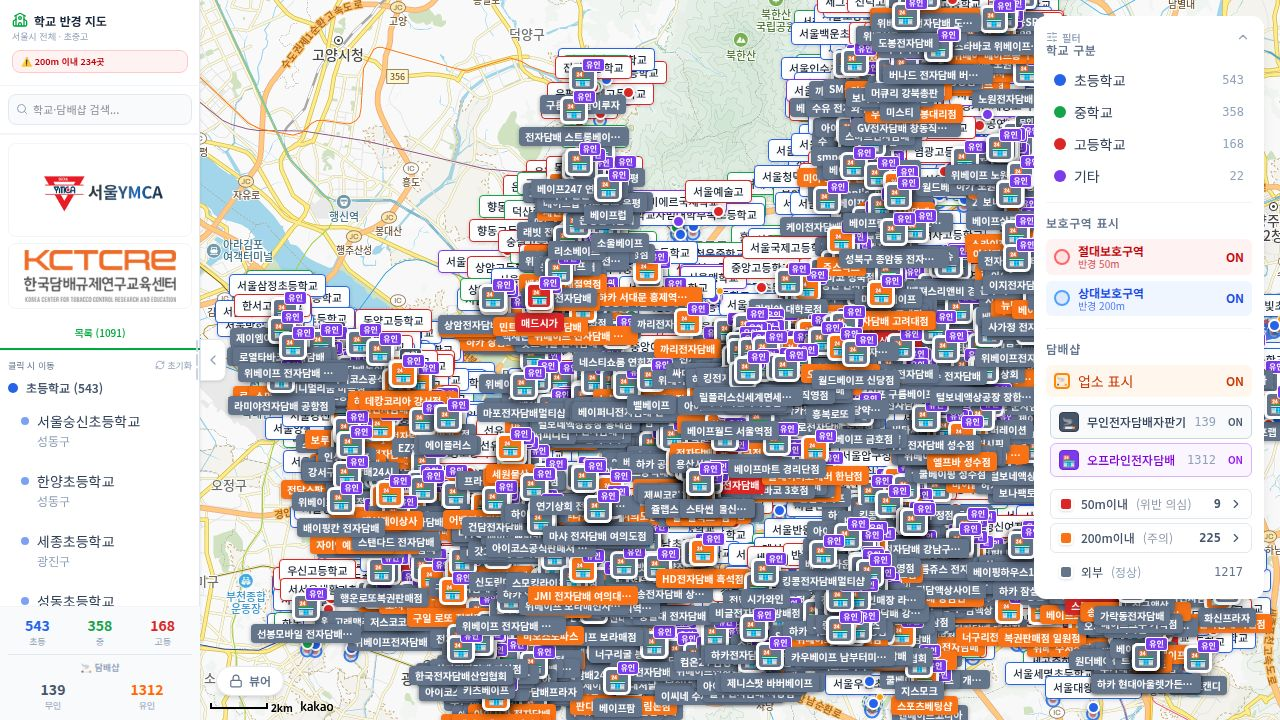
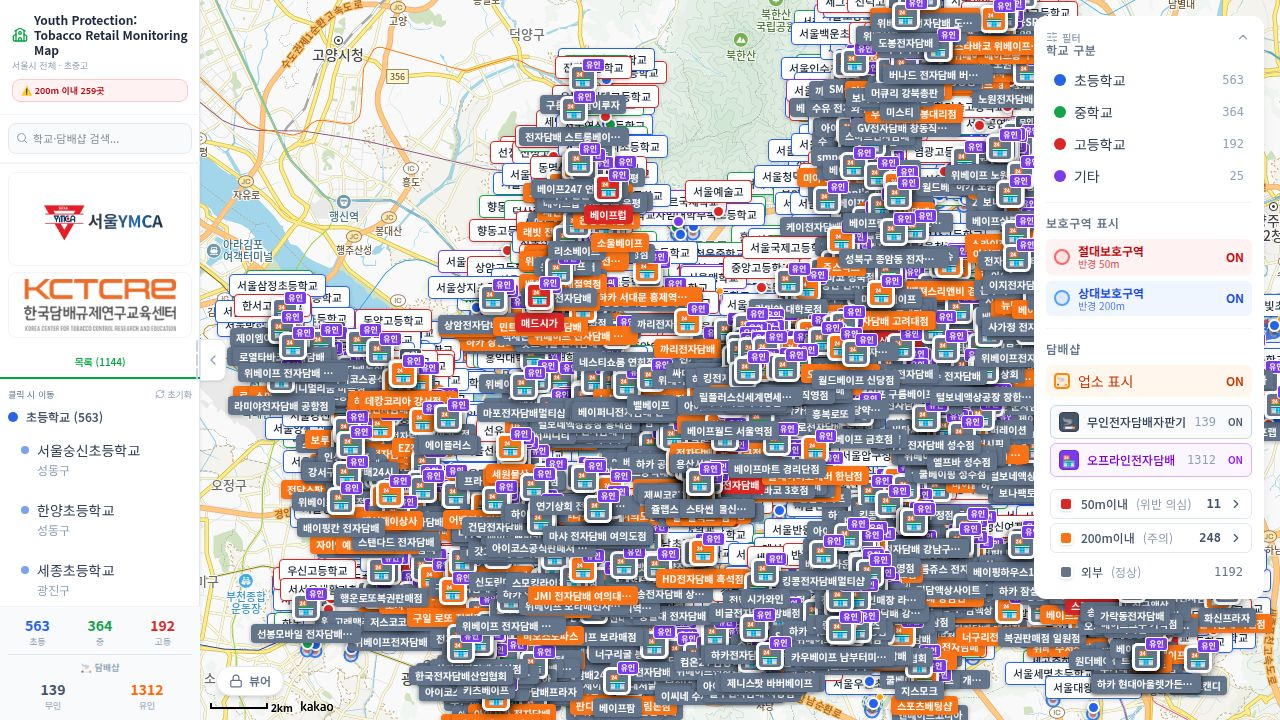
Add progressive web app functionality for offline use and home screen installation
Implement PWA configuration including manifest.json, service worker (sw.js), and app icons (icon-192.png, icon-512.png). Update index.html to register the service worker and add PWA metadata.

Replit-Commit-Author: Agent
Replit-Commit-Session-Id: da1df3fd-b3f6-4c64-9bd5-ff60f89cd415
Replit-Commit-Checkpoint-Type: full_checkpoint
Replit-Commit-Event-Id: 2ce83bef-07fd-4d5c-a432-59c7d3d891d6
Replit-Commit-Screenshot-Url: https://storage.googleapis.com/screenshot-production-us-central1/67cf3ead-6ce6-4d70-9240-5c1be8a0e038/da1df3fd-b3f6-4c64-9bd5-ff60f89cd415/NwNQvV7
Replit-Helium-Checkpoint-Created: true

diff --git a/artifacts/school-map/public/sw.js b/artifacts/school-map/public/sw.js
@@ -1,0 +1,59 @@
+/* Service Worker — Youth Protection Tobacco Retail Monitoring Map
+ * Network-first 전략: 항상 최신 데이터를 우선 사용, 오프라인 시 캐시로 폴백.
+ * 카카오 지도·API 서버는 캐시하지 않음 (동적 데이터). */
+
+const CACHE_NAME = 'yp-tobacco-map-v1';
+const STATIC_ASSETS = [
+  '/',
+  '/index.html',
+  '/manifest.json',
+  '/icon-192.png',
+  '/icon-512.png',
+];
+
+/* 설치: 정적 에셋 사전 캐시 */
+self.addEventListener('install', (event) => {
+  event.waitUntil(
+    caches.open(CACHE_NAME).then((cache) => cache.addAll(STATIC_ASSETS))
+  );
+  self.skipWaiting();
+});
+
+/* 활성화: 구 버전 캐시 정리 */
+self.addEventListener('activate', (event) => {
+  event.waitUntil(
+    caches.keys().then((keys) =>
+      Promise.all(keys.filter((k) => k !== CACHE_NAME).map((k) => caches.delete(k)))
+    )
+  );
+  self.clients.claim();
+});
+
+/* Fetch: 카카오 API 및 서버 API는 항상 네트워크 우선 */
+self.addEventListener('fetch', (event) => {
+  const url = new URL(event.request.url);
+
+  /* 카카오 API, 서버 API — 캐시 우회 */
+  if (
+    url.hostname.includes('kakao') ||
+    url.hostname.includes('daum') ||
+    url.pathname.startsWith('/api/')
+  ) {
+    event.respondWith(fetch(event.request));
+    return;
+  }
+
+  /* 정적 에셋 — 캐시 우선, 없으면 네트워크 */
+  event.respondWith(
+    caches.match(event.request).then(
+      (cached) => cached || fetch(event.request).then((response) => {
+        /* 성공적 응답이면 캐시에 저장 */
+        if (response.ok && event.request.method === 'GET') {
+          const clone = response.clone();
+          caches.open(CACHE_NAME).then((cache) => cache.put(event.request, clone));
+        }
+        return response;
+      })
+    )
+  );
+});

diff --git a/artifacts/school-map/index.html b/artifacts/school-map/index.html
@@ -5,6 +5,12 @@
     <meta name="viewport" content="width=device-width, initial-scale=1.0, maximum-scale=1" />
     <title>Youth Protection: Tobacco Retail Monitoring Map</title>
     <link rel="icon" type="image/svg+xml" href="/favicon.svg" />
+    <link rel="manifest" href="/manifest.json" />
+    <link rel="apple-touch-icon" href="/icon-192.png" />
+    <meta name="apple-mobile-web-app-capable" content="yes" />
+    <meta name="apple-mobile-web-app-status-bar-style" content="black-translucent" />
+    <meta name="apple-mobile-web-app-title" content="YP Tobacco Map" />
+    <meta name="theme-color" content="#0f3c50" />
     <link rel="preconnect" href="https://fonts.googleapis.com">
     <link rel="preconnect" href="https://fonts.gstatic.com" crossorigin>
     <link href="https://fonts.googleapis.com/css2?family=Noto+Sans+KR:wght@400;500;600;700&display=swap" rel="stylesheet">
@@ -13,5 +19,14 @@
   <body>
     <div id="root"></div>
     <script type="module" src="/src/main.tsx"></script>
+    <script>
+      if ('serviceWorker' in navigator) {
+        window.addEventListener('load', () => {
+          navigator.serviceWorker.register('/sw.js')
+            .then(reg => console.log('[SW] registered, scope:', reg.scope))
+            .catch(err => console.warn('[SW] registration failed:', err));
+        });
+      }
+    </script>
   </body>
 </html>